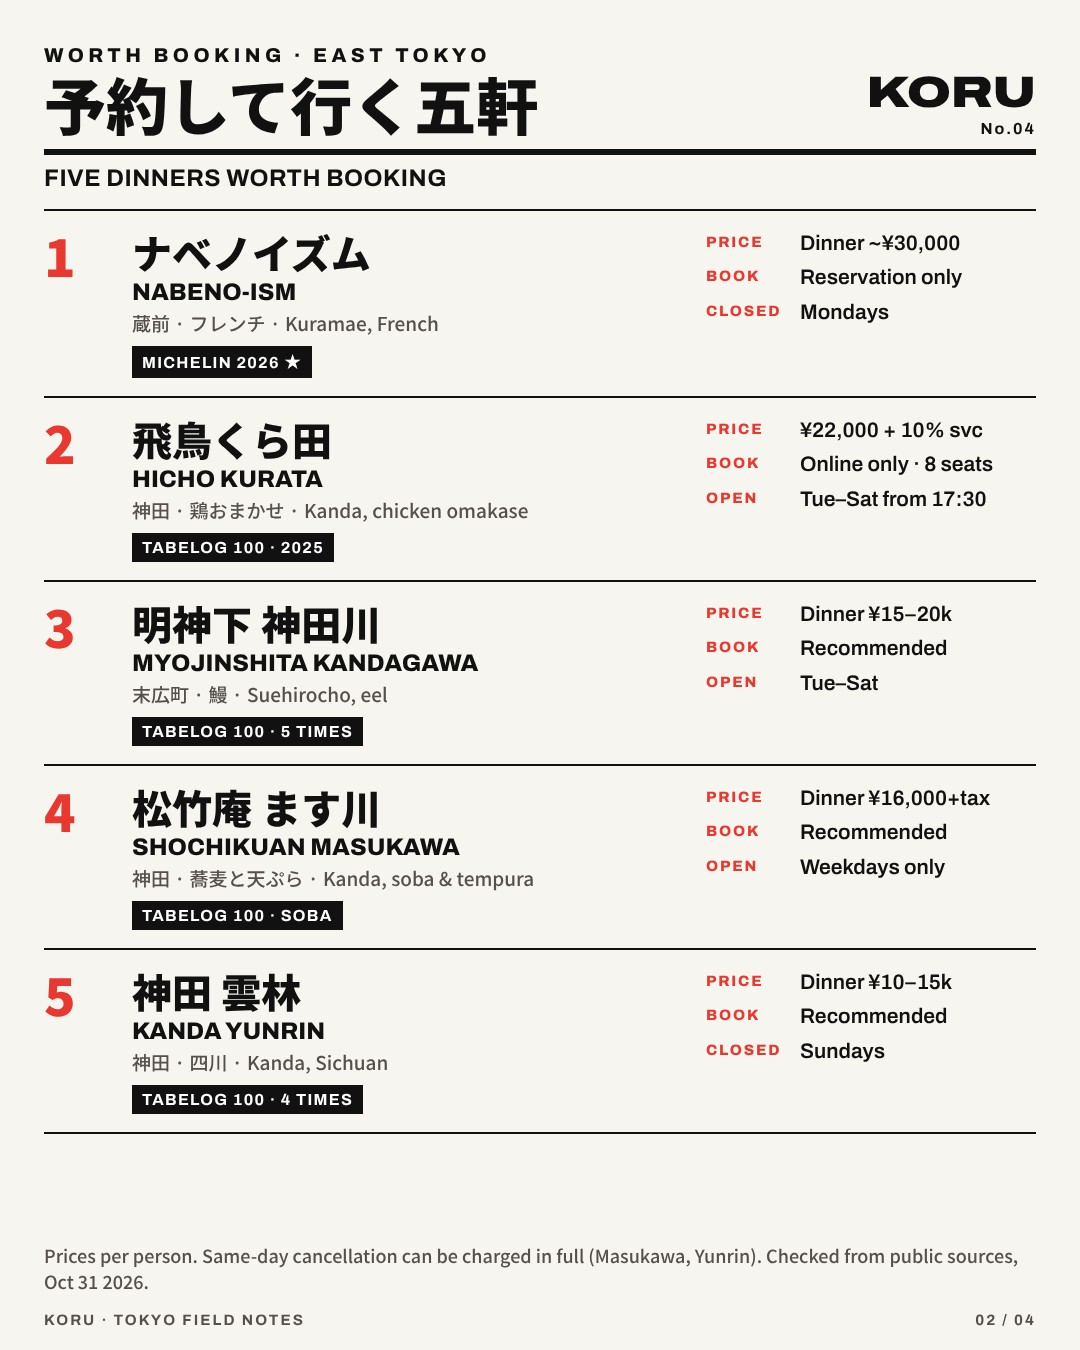
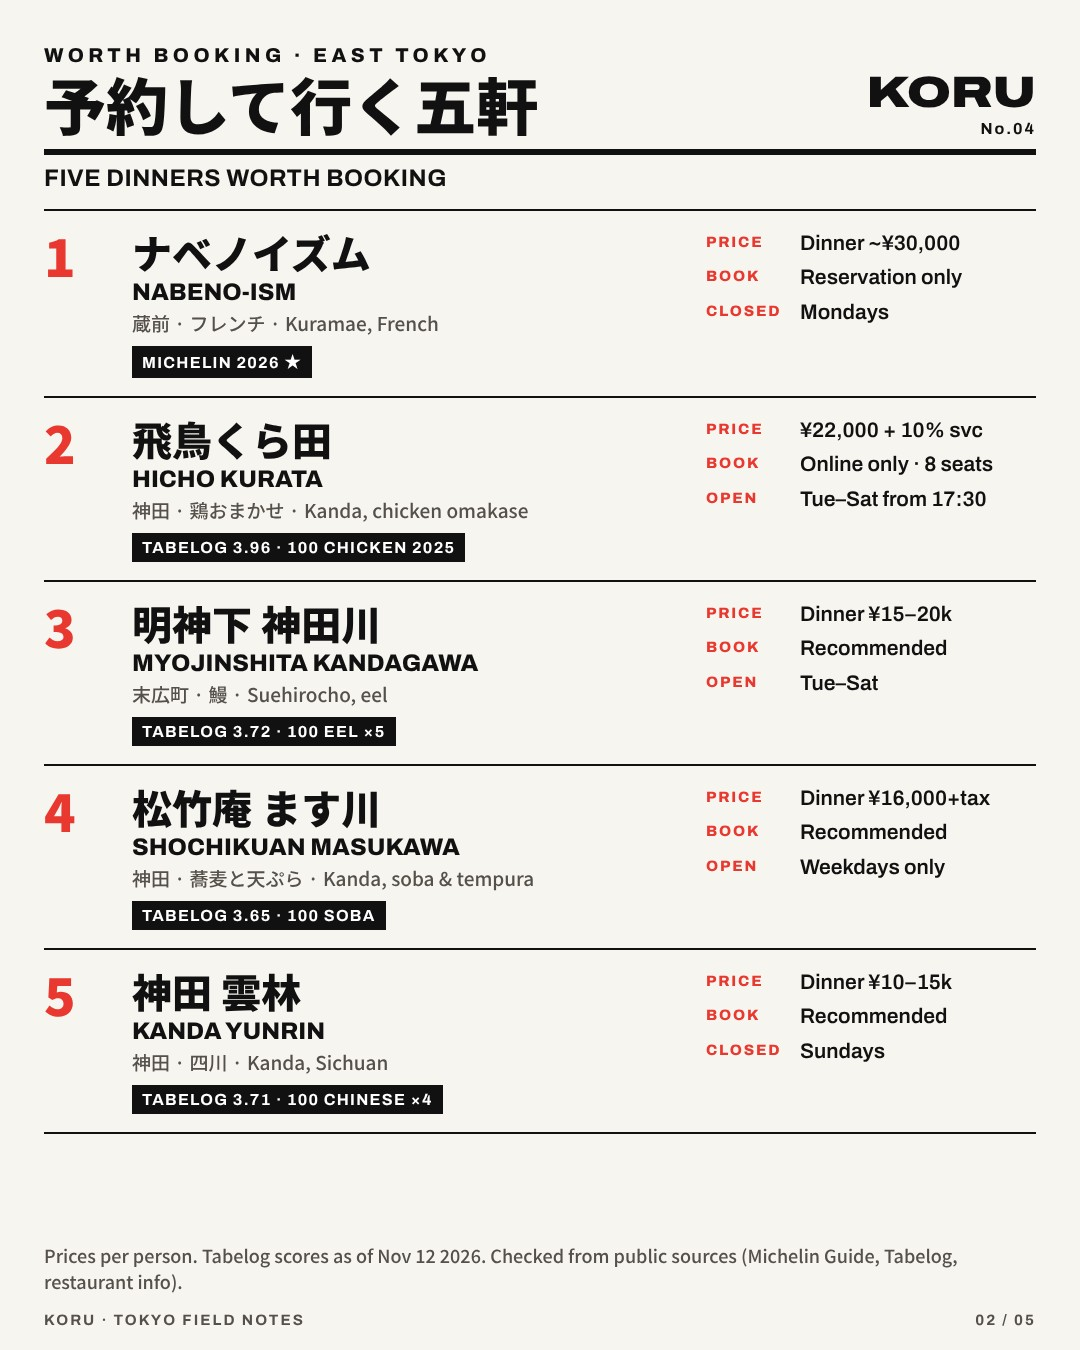
No.04: Tabelog scores + house-rules page from official listings; shops.json house_rules fields
Claude-Session: https://claude.ai/code/session_013MoeJAcbViQDnskSnwEuKc

diff --git a/tools/carousel/render.py b/tools/carousel/render.py
@@ -123,7 +123,7 @@ def rules(s, spec, i, n):
 <span class="a" style="font-weight:800;font-size:30px;color:{RED}">{e(it.get('stat',''))}</span></div>
 <div class="g" style="font-size:38px;line-height:1.15;margin-top:8px">{e(it['jp'])}</div>
 <div class="a" style="font-weight:800;font-size:23px;line-height:1.15;margin-top:6px">{e(it['en'].upper())}</div>
-<div class="a" style="font-weight:500;font-size:19px;line-height:1.3;margin-top:auto;padding-top:8px;color:#333">{e(it.get('do',''))}</div></div>""" for k, it in enumerate(s['items']))
+<div class="a" style="font-weight:500;font-size:{s.get('do_size',19)}px;line-height:1.3;margin-top:auto;padding-top:8px;color:#333">{e(it.get('do',''))}</div></div>""" for k, it in enumerate(s['items']))
     return f"""<div class="s" style="padding:44px 44px">{head(spec, s['kicker'], s['jp'], s['en'], s.get('sub',''))}
 <div style="display:grid;grid-template-columns:1fr 1fr;grid-auto-rows:1fr;gap:16px;margin-top:20px;height:{s.get('grid_h',1030)}px">{boxes}</div>{folio(i, n)}</div>"""
 

diff --git a/docs/experiments/reissue_plan.md b/docs/experiments/reissue_plan.md
@@ -36,3 +36,11 @@ not just the design. Visuals we can make ourselves:
 5. Later: line illustrations of dish genres, labelled "Illustration" (never presented as a specific shop's dish).
 So photo-less issues lean on information that saves a traveler from a bad meal: where (map), when (hours/closed days),
 how much (budget), how to book, what to say. Every photo-less issue gets a map page.
+
+## 2026-11-12: official info + reviews (Yu: 「あとはお店の公式情報と口コミだよね」)
+- Official info (restaurant's own listing / site): facts we may use, paraphrased — prices, courses, hours, booking method,
+  house rules (dress code, perfume, children, late-arrival and cancellation fees, service charge, payment). These are the
+  most useful "don't fail" details for our target reader. data/shops.json fields: house_rules, rules_checked.
+- Reviews: use the Tabelog score and review count with a date (tabelog_score, tabelog_reviews). Summarise review themes in
+  our own words only when several reviews say the same thing; never quote review text, never use Google review text.
+- New page type in use: `rules` as "House rules before you book" (No.04).
